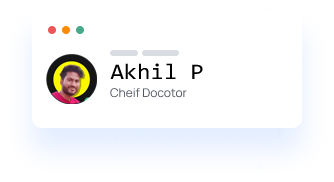
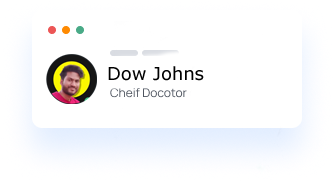
31072023

Changed region(s): [[0.2994, 0.2747, 0.6287, 0.4396], [0.3293, 0.467, 0.3593, 0.4945]]

diff --git a/Elixir-Healthcare-doctor-Appointment/frontend/src/pages/Home.jsx b/Elixir-Healthcare-doctor-Appointment/frontend/src/pages/Home.jsx
@@ -267,7 +267,7 @@ const Home = () => {
                   <div className="flex items-center gap-[6px] lg:gap-[10px] mt-2 lg:mt-[18px] ">
                     <img src={avatarIcon} alt="" />
                     <h4 className="text-[10px] leading-3 lg:text-[16px] lg:leading-[22px] font-[700] text-headingColor">
-                      Akhil P
+                      Dow Johns
                     </h4>
                   </div>
                 </div>
